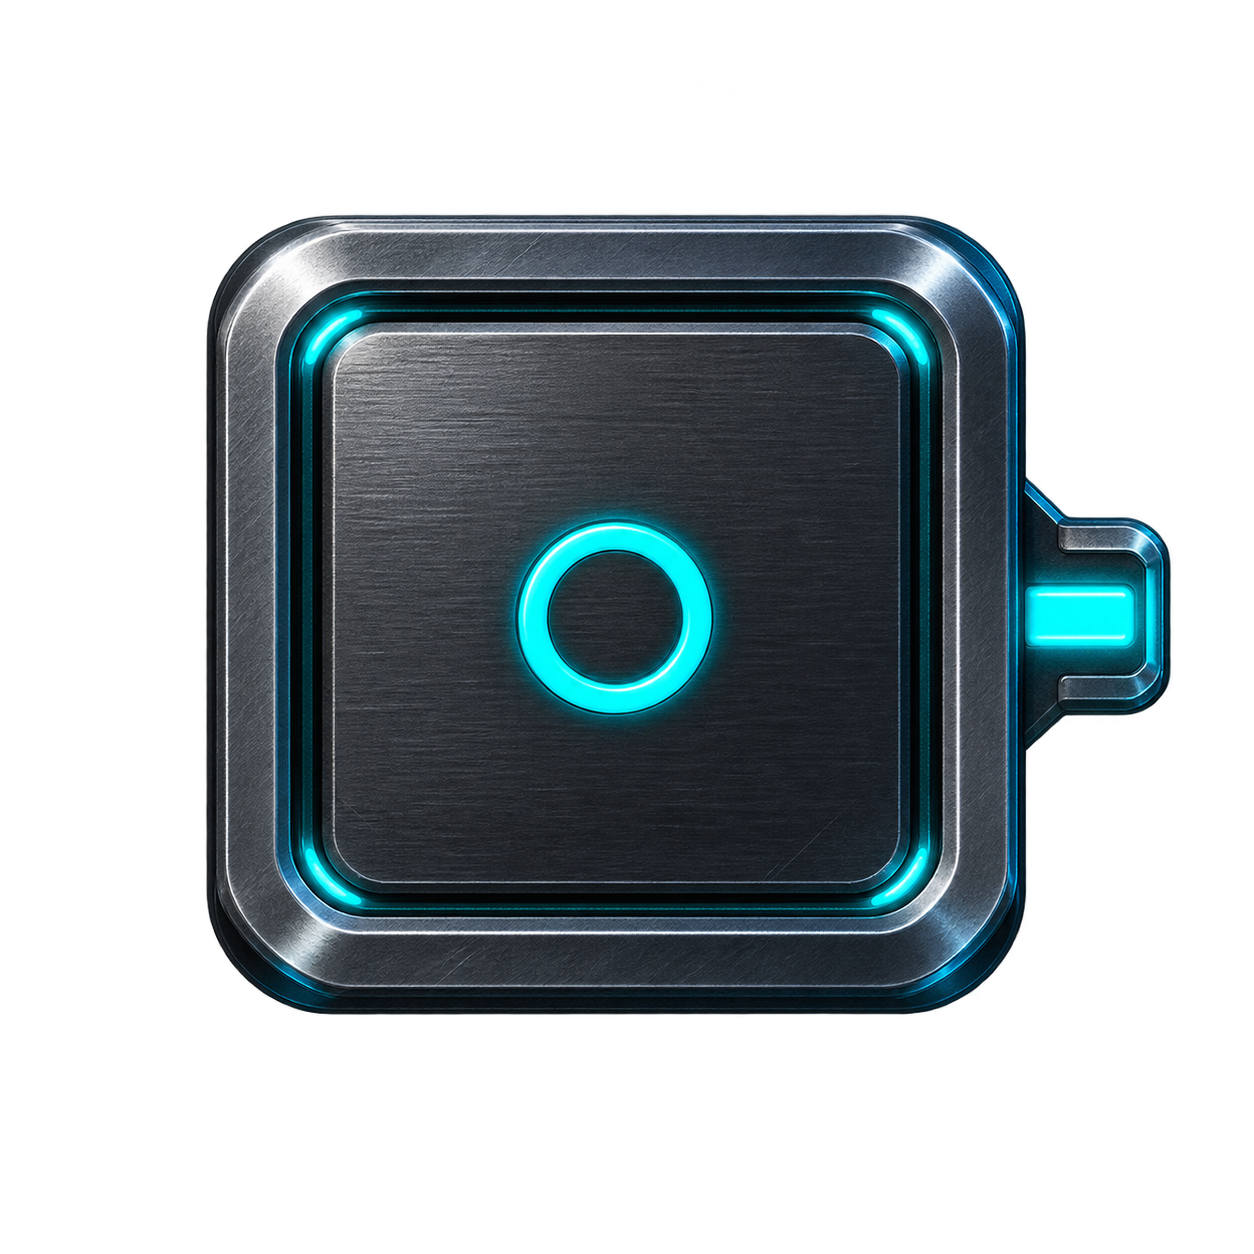
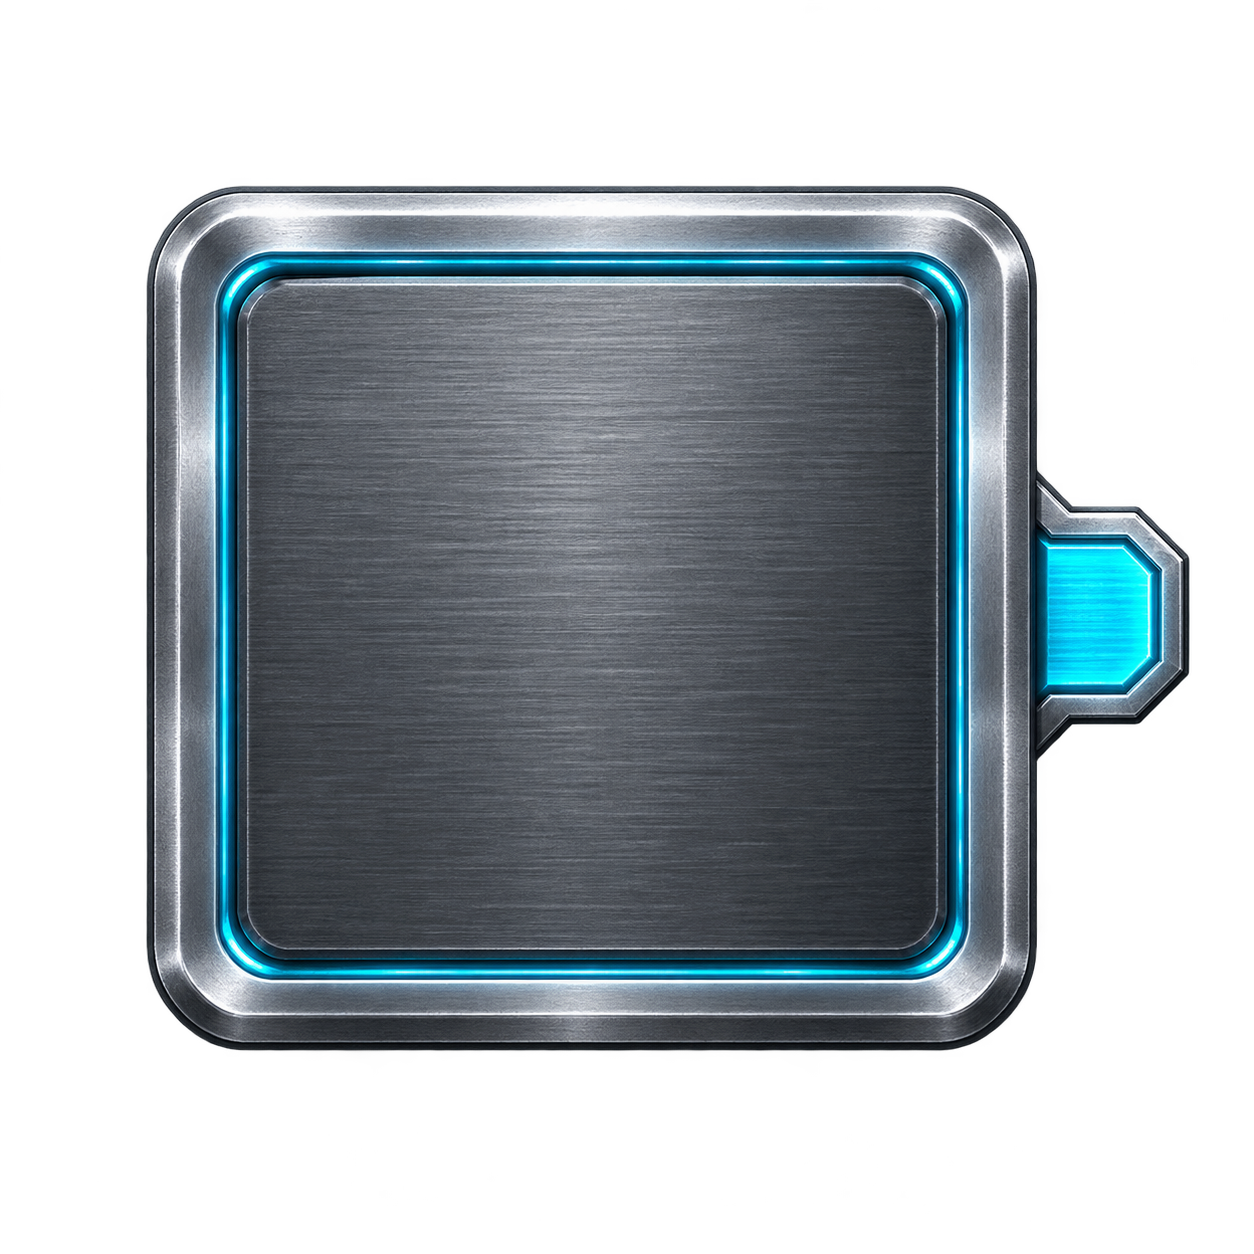
fix: dock start port to board edge

diff --git a/app/src/main/kotlin/com/aela/mainboardoverride/ui/MainboardApp.kt b/app/src/main/kotlin/com/aela/mainboardoverride/ui/MainboardApp.kt
@@ -442,9 +442,9 @@ internal fun Board(
         val cell = minOf((maxWidth - margin * 2) / (board.width + 2), (maxHeight - margin * 2) / board.height).coerceAtLeast(0.dp)
         Box(Modifier.width(cell * (board.width + 2)).height(cell * board.height)) {
             PortSprite(R.drawable.board_port_s0_v1, "S0", board.start.y, cell, start = true,
-                modifier = Modifier.testTag("board-port-s0"))
+                modifier = Modifier.offset(x = cell * .18f).testTag("board-port-s0"))
             PortSprite(R.drawable.board_port_x6_v1, "X6", board.extraction.y, cell, start = false,
-                modifier = Modifier.offset(x = cell * (board.width + 1)).testTag("board-port-x6"))
+                modifier = Modifier.offset(x = cell * (board.width + .82f)).testTag("board-port-x6"))
             Box(Modifier.offset(x = cell).width(cell * board.width).height(cell * board.height)
                 .background(Color.Transparent)
                 .border(1.dp, Muted.copy(alpha = .4f))) {
@@ -537,7 +537,7 @@ internal fun Board(
 @Composable
 private fun PortSprite(resource: Int, label: String, row: Int, size: Dp, start: Boolean, modifier: Modifier = Modifier) {
     Box(
-        modifier.offset(y = size * row).width(size).height(size),
+        modifier.offset(y = size * row).width(size).height(size).zIndex(2f),
         contentAlignment = Alignment.BottomCenter,
     ) {
         Image(

diff --git a/assets/board/port-s0-prompt.md b/assets/board/port-s0-prompt.md
@@ -1,3 +1,3 @@
 Built-in image_gen, 2026-09-14. Generated for this project; original preserved in originals/.
 
-Use case: stylized-concept. Asset type: transparent raster one-cell board-port sprite for a mobile domino puzzle game. Primary request: one compact square START port block matching the gray gunmetal plates of the board, with a brushed-metal face, rounded bevel, inset rim and cyan edge lighting. It represents the output value zero with no pips, only a small cyan ring. Add a short cyan connector tab on the right edge for the first board cell. Square one-cell block, genuine transparent background, no text or letters in the artwork; S0 is rendered beside it by the UI. No full domino, no large hardware module, no watermark or extra objects.
+Use case: stylized-concept. Asset type: transparent raster one-cell board-port sprite for a mobile domino puzzle game. Primary request: one compact square START port block matching the gray gunmetal plates of the board, with a brushed-metal face, rounded bevel, inset rim and cyan edge lighting. It represents the output value zero with a completely empty center and no pips, dots, rings or symbols. Add a short cyan connector tab on the right edge for the first board cell. Square one-cell block, genuine transparent background, no text or letters in the artwork; S0 is rendered beside it by the UI. No full domino, no large hardware module, no watermark or extra objects.
